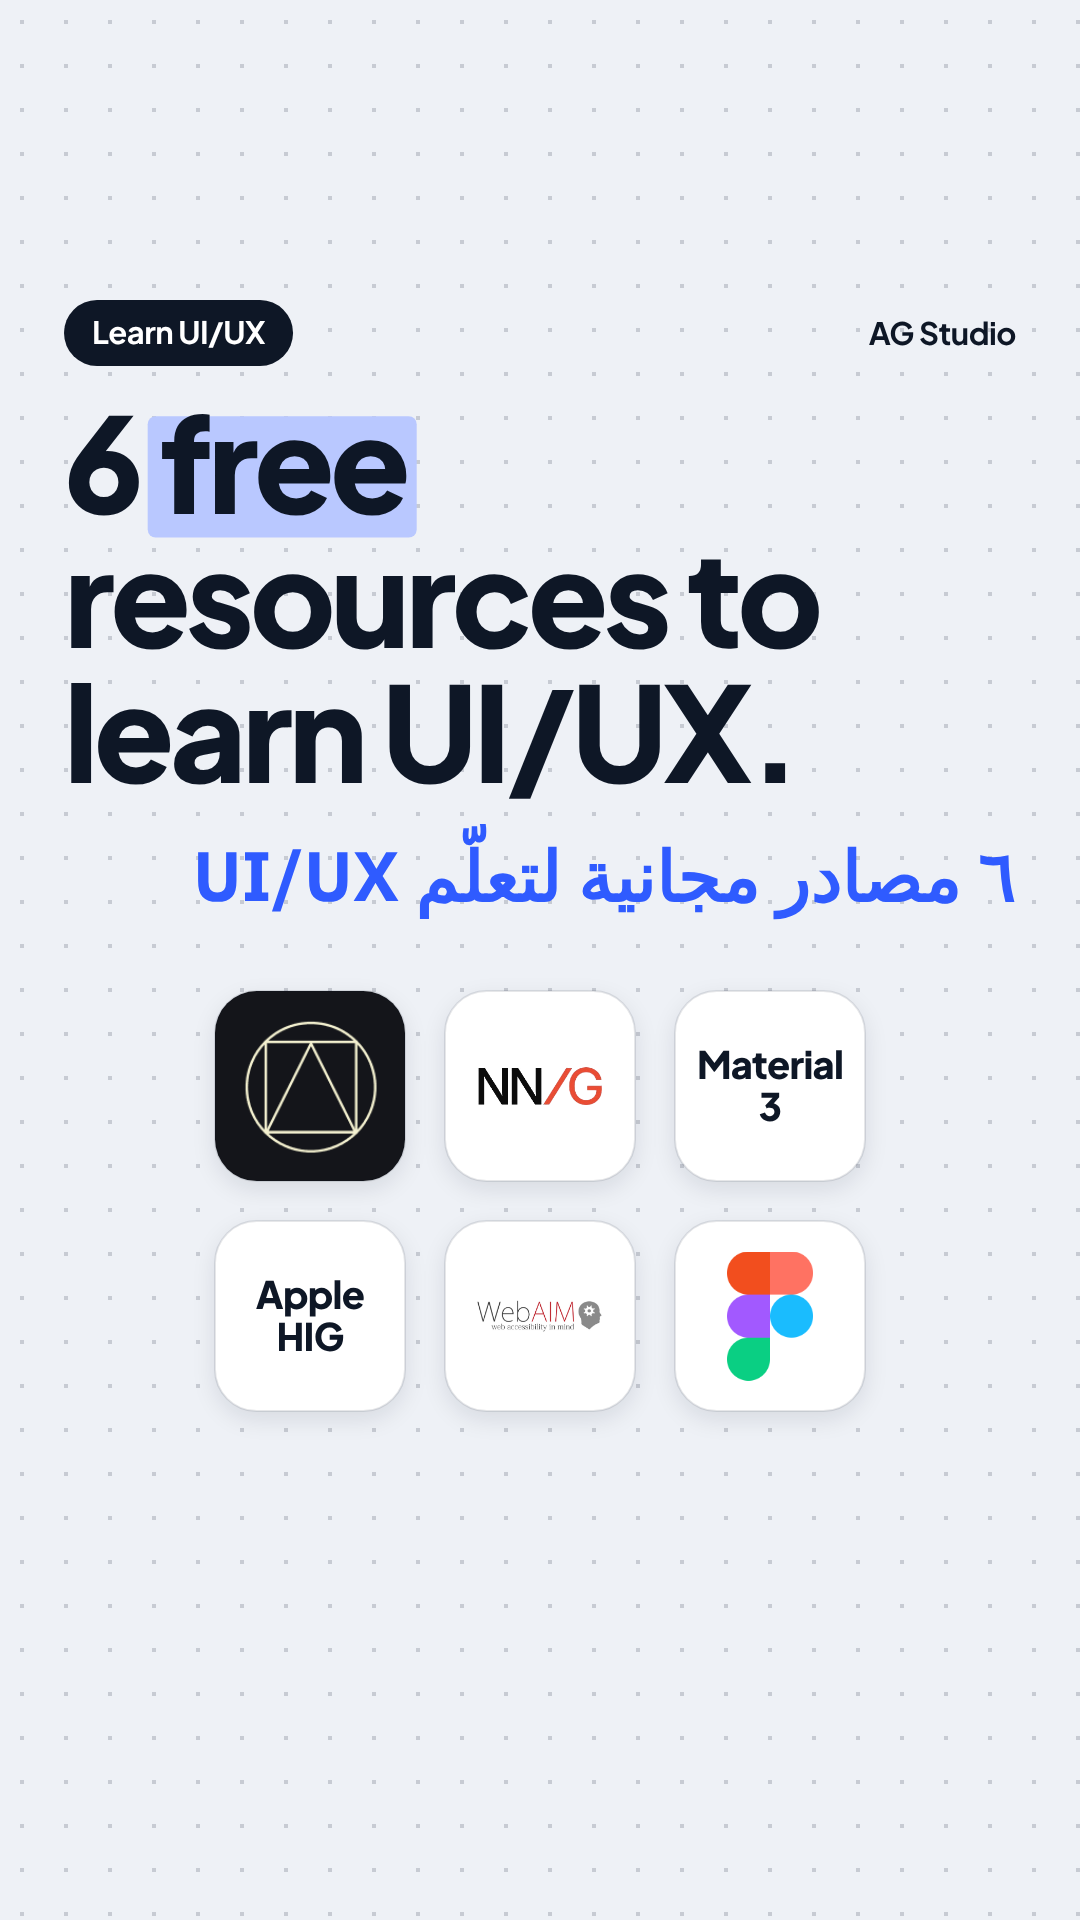
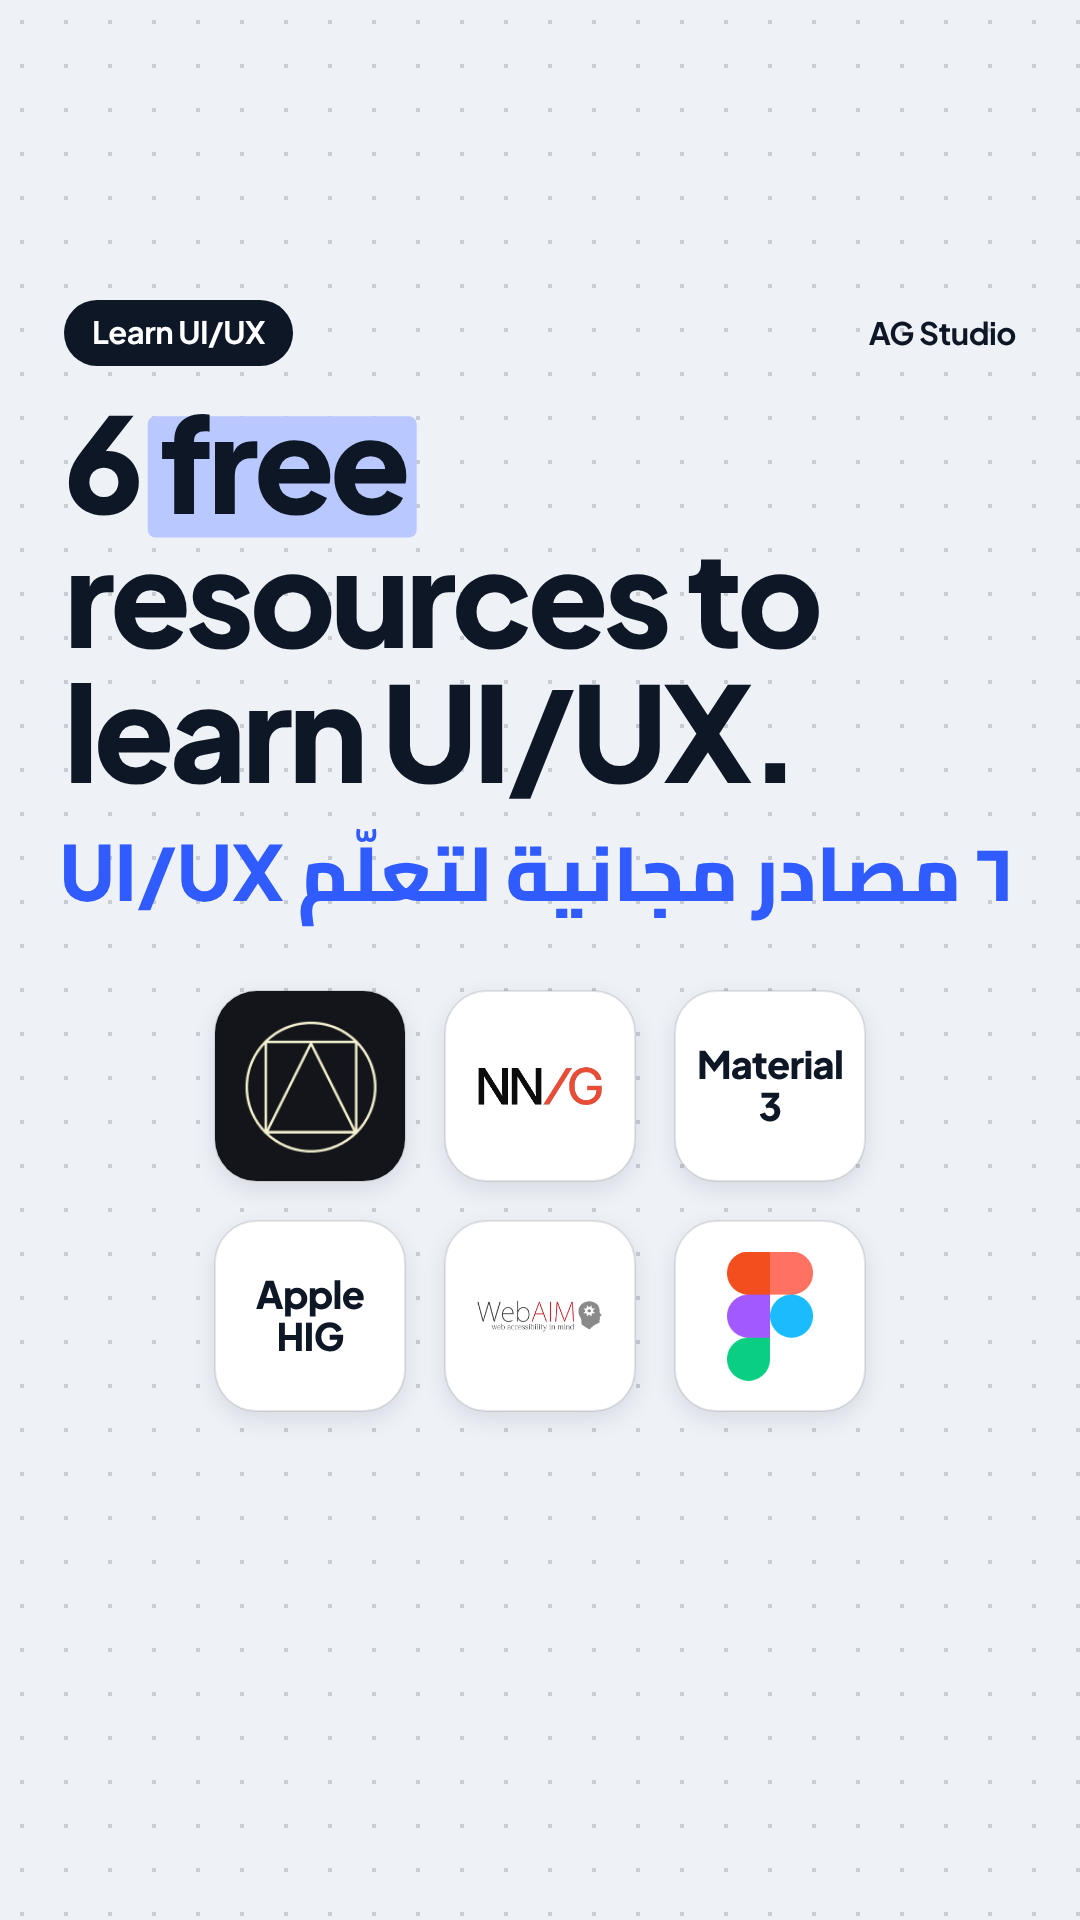
Cover: Cairo for the Arabic line; load Arabic faces before rendering
Claude-Session: https://claude.ai/code/session_01FBPTB3jeqhR1KyoC7UCUXC

Changed region(s): [[0.0611, 0.4062, 0.8861, 0.5], [0.9167, 0.4375, 0.9472, 0.4688]]

diff --git a/learn-6-free/film.js b/learn-6-free/film.js
@@ -187,6 +187,8 @@ function overlays(ctx, u, i, V) {
 // TikTok shows the cover cropped to 3:4 in the profile grid: every word sits in the central band
 // (y 240..1680). The Shorts cover uses the full frame.
 const COVER = new URLSearchParams(location.search).get('cover');
+const COVER_AR = { cairo: 'CoverCairo, Jakarta', tajawal: 'CoverTajawal, Jakarta', kufi: 'CoverKufi, Jakarta', almarai: 'CoverAlmarai, Jakarta', plex: null };
+const COVER_FONT = new URLSearchParams(location.search).get('arfont') || 'cairo';
 function cover(ctx, IMG, kind) {
   const U = 100;                                   // every spring settled
   A.paper(ctx);
@@ -198,7 +200,7 @@ function cover(ctx, IMG, kind) {
   A.riseWords(ctx, U, 0, 'resources to', { x: L.left, y: y + sz * 1.02, size: sz });
   A.riseWords(ctx, U, 0, 'learn UI/UX.', { x: L.left, y: y + sz * 2.04, size: sz });
   y += sz * 2.04 + 118;
-  A.line(ctx, U, 0, '٦ مصادر مجانية لتعلّم UI/UX', { x: L.right, y, size: 70, weight: 700, color: C.blue, align: 'right', rtl: true });
+  A.line(ctx, U, 0, '٦ مصادر مجانية لتعلّم UI/UX', { x: L.right, y, size: 76, weight: 800, color: C.blue, align: 'right', rtl: true, family: COVER_AR[COVER_FONT] });
   const s = kind === 'tiktok' ? 190 : 210, gap = kind === 'tiktok' ? 40 : 46;
   const gy = y + 90, x0 = L.left + (L.width - (3 * s + 2 * gap)) / 2;
   RES.forEach((r, i) => {
@@ -209,7 +211,7 @@ function cover(ctx, IMG, kind) {
 
 // ------------------------------------------------------------------ the film
 M.film({
-  fonts: [font(74, 800, F.latin), font(34, 500, F.latin), font(54, 700, F.arabic), font(32, 500, F.arabic), font(28, 700, F.mono)],
+  fonts: [...(COVER && COVER_AR[COVER_FONT] ? [font(76, 800, COVER_AR[COVER_FONT].split(',')[0])] : []), font(74, 800, F.latin), font(34, 500, F.latin), font(54, 700, F.arabic), font(32, 500, F.arabic), font(28, 700, F.mono)],
   images: {
     lawsLogo: 'assets/logos/laws-of-ux.png', nngLogo: 'assets/logos/nngroup.png',
     webaimLogo: 'assets/logos/webaim.png', figmaLogo: 'assets/logos/figma.webp',
@@ -217,6 +219,12 @@ M.film({
     apple: 'assets/shots/04-apple-hig.png', webaim: 'assets/shots/05-webaim-contrast.jpg', figma: 'assets/shots/06-figma.jpg',
   },
   hits: HITS,
+  // Arabic faces are unicode-range subsets: load them with Arabic text, or they arrive mid-render.
+  async init() {
+    const ar = 'مصادر مجانية لتعلّم ٦';
+    const fams = [F.arabic, ...(COVER && COVER_AR[COVER_FONT] ? [COVER_AR[COVER_FONT].split(',')[0]] : [])];
+    await Promise.all(fams.flatMap((fam) => [500, 600, 700, 800].map((w) => document.fonts.load(font(40, w, fam), ar).catch(() => {}))));
+  },
   draw(ctx, u, t, IMG) {
     if (COVER) { cover(ctx, IMG, COVER); return; }
     if (u >= END) { A.endCard(ctx, u, END + 0.1); return; }

diff --git a/learn-6-free/index.html b/learn-6-free/index.html
@@ -12,6 +12,11 @@
   @font-face { font-family: PlexArabic; src: url(../node_modules/@fontsource/ibm-plex-sans-arabic/files/ibm-plex-sans-arabic-latin-600-normal.woff2) format('woff2'); font-weight: 600; unicode-range: U+0000-00FF, U+2000-206F; }
   @font-face { font-family: PlexArabic; src: url(../node_modules/@fontsource/ibm-plex-sans-arabic/files/ibm-plex-sans-arabic-arabic-700-normal.woff2) format('woff2'); font-weight: 700; unicode-range: U+0600-06FF, U+0750-077F, U+FB50-FDFF, U+FE70-FEFF, U+200C-200F; }
   @font-face { font-family: PlexArabic; src: url(../node_modules/@fontsource/ibm-plex-sans-arabic/files/ibm-plex-sans-arabic-latin-700-normal.woff2) format('woff2'); font-weight: 700; unicode-range: U+0000-00FF, U+2000-206F; }
+  /* Cover-only Arabic display faces (Arabic glyphs only; Latin falls back to Jakarta). */
+  @font-face { font-family: CoverCairo; src: url(../node_modules/@fontsource/cairo/files/cairo-arabic-800-normal.woff2) format('woff2'); font-weight: 800; unicode-range: U+0600-06FF, U+0750-077F, U+FB50-FDFF, U+FE70-FEFF, U+200C-200F; }
+  @font-face { font-family: CoverTajawal; src: url(../node_modules/@fontsource/tajawal/files/tajawal-arabic-800-normal.woff2) format('woff2'); font-weight: 800; unicode-range: U+0600-06FF, U+0750-077F, U+FB50-FDFF, U+FE70-FEFF, U+200C-200F; }
+  @font-face { font-family: CoverKufi; src: url(../node_modules/@fontsource/noto-kufi-arabic/files/noto-kufi-arabic-arabic-800-normal.woff2) format('woff2'); font-weight: 800; unicode-range: U+0600-06FF, U+0750-077F, U+FB50-FDFF, U+FE70-FEFF, U+200C-200F; }
+  @font-face { font-family: CoverAlmarai; src: url(../node_modules/@fontsource/almarai/files/almarai-arabic-800-normal.woff2) format('woff2'); font-weight: 800; unicode-range: U+0600-06FF, U+0750-077F, U+FB50-FDFF, U+FE70-FEFF, U+200C-200F; }
   html, body { margin: 0; height: 100%; background: #111; overflow: hidden; }
   body { display: grid; place-items: center; }
   canvas { display: block; max-width: 100vw; max-height: 100vh; width: auto; height: auto; }
